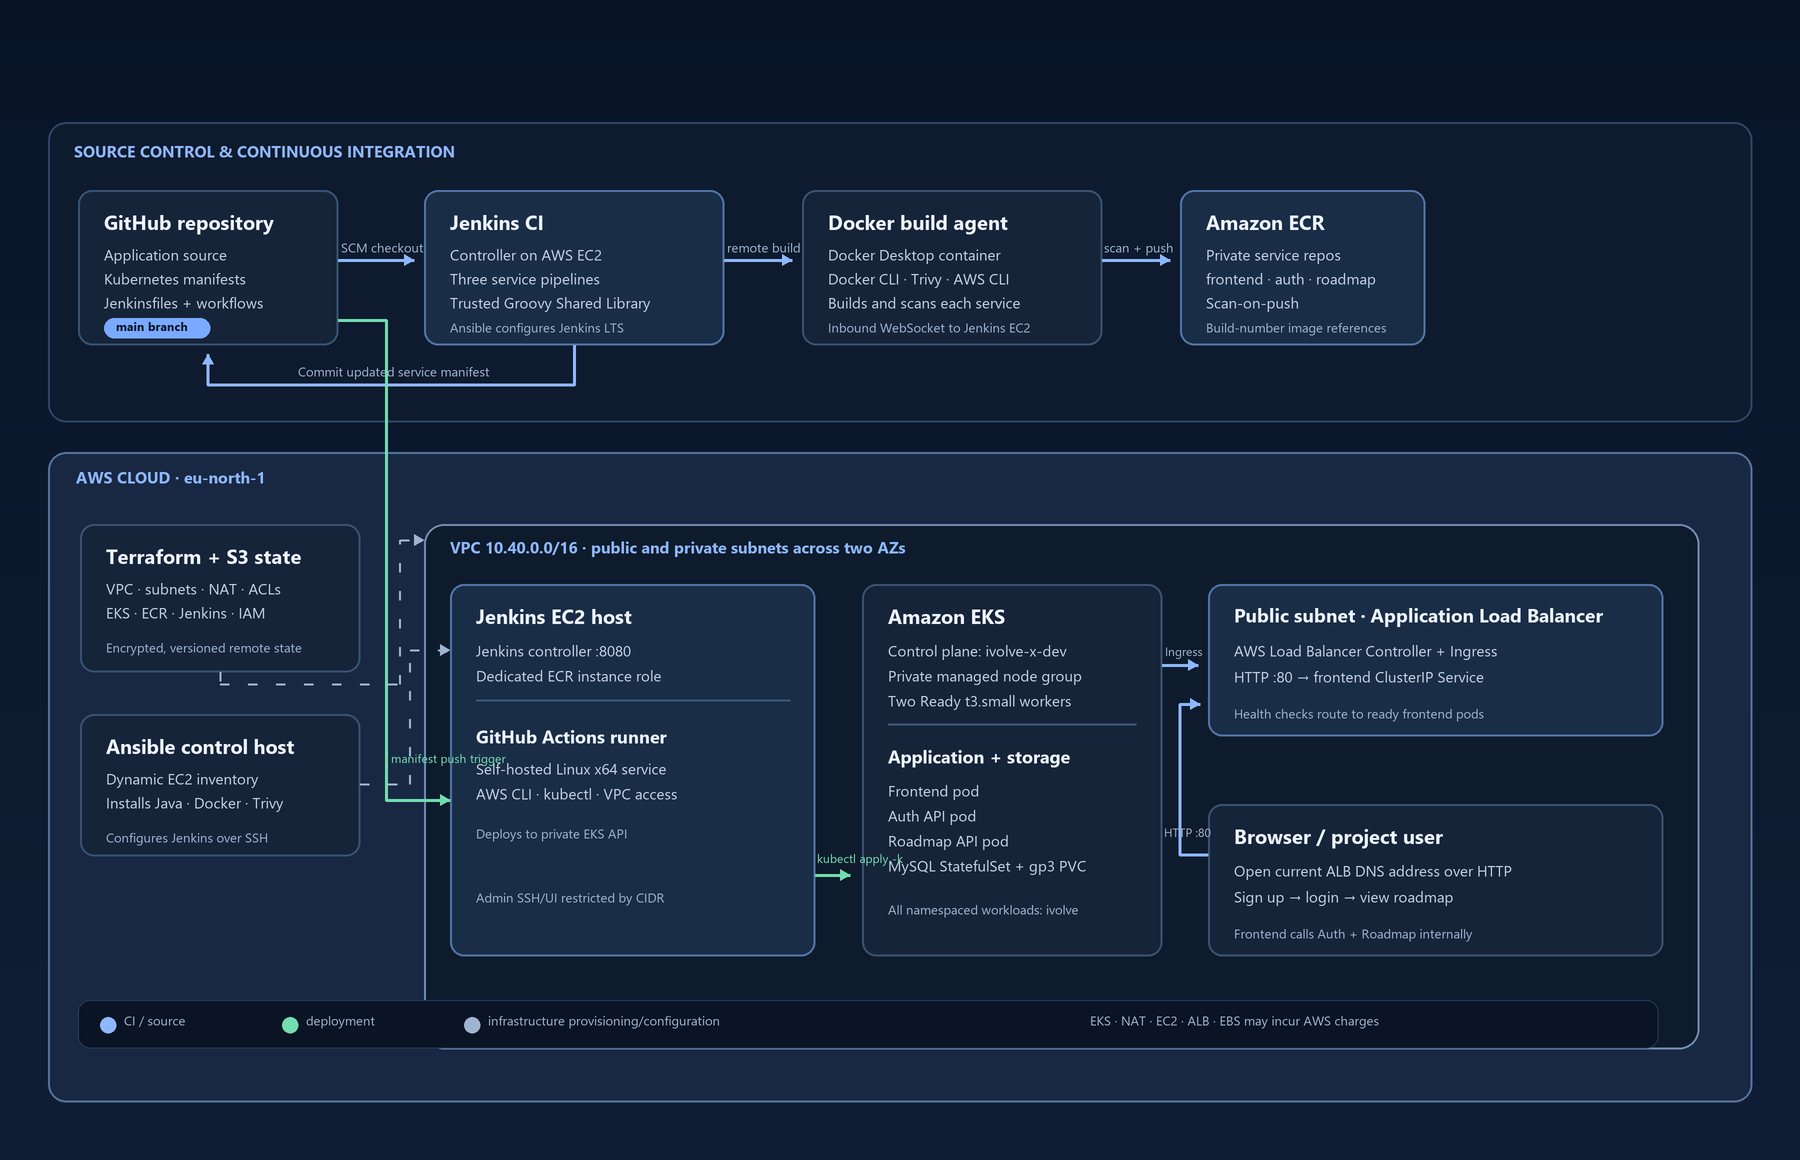
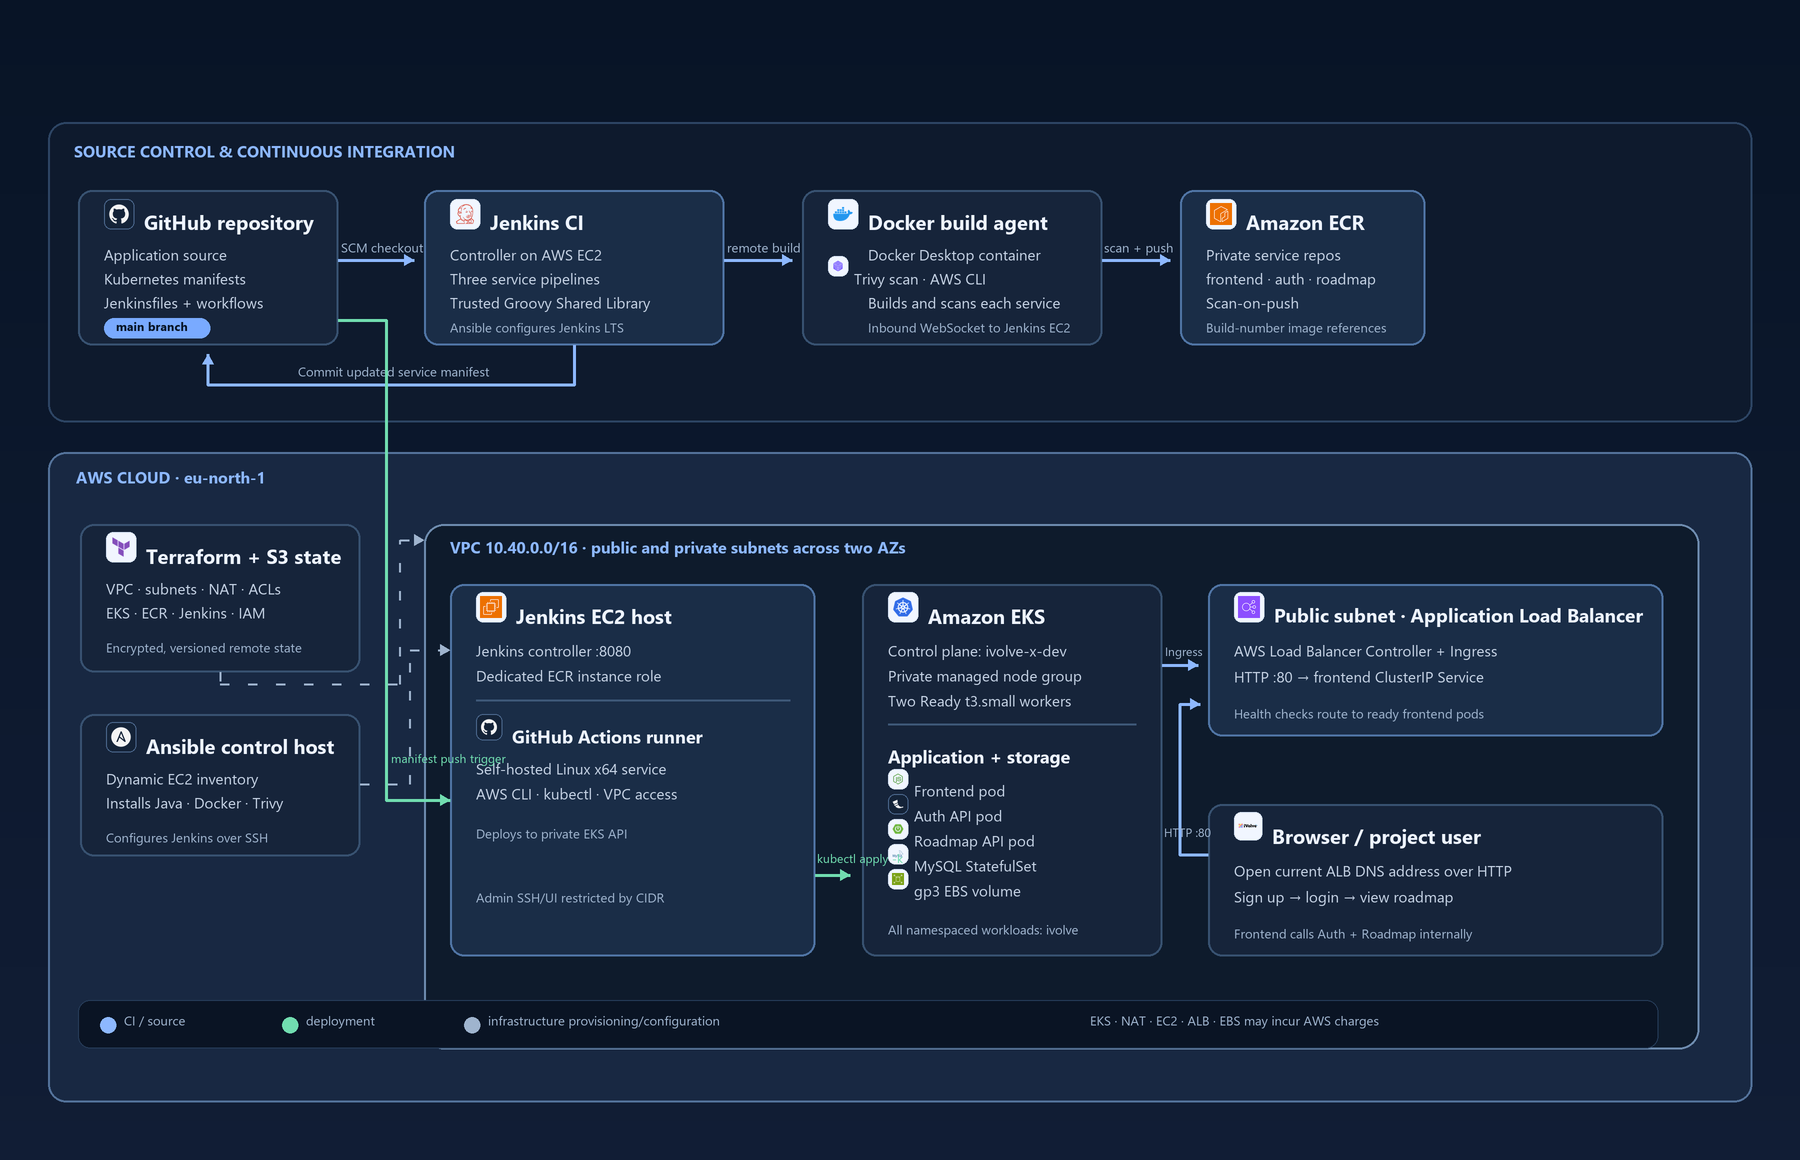
Add architecture video and Kubernetes manifests

diff --git a/docs/images/render_architecture.py b/docs/images/render_architecture.py
@@ -4,6 +4,7 @@ Requires Pillow. Run from the repository root with `python docs/images/render_ar
 The SVG remains the editable vector source; the PNG is the portable preview asset.
 """
 
+from functools import lru_cache
 from pathlib import Path
 
 from PIL import Image, ImageDraw, ImageFont
@@ -15,6 +16,8 @@ SCALE = 2
 W, H = 1800, 1160
 FONT_REGULAR = Path("C:/Windows/Fonts/segoeui.ttf")
 FONT_BOLD = Path("C:/Windows/Fonts/segoeuib.ttf")
+LOGO_ROOT = ROOT.parent / "demo" / "assets" / "logos"
+APP_LOGOS = ROOT.parent.parent / "app" / "frontend" / "public" / "images"
 
 BG1 = (8, 20, 38)
 BG2 = (17, 29, 53)
@@ -57,6 +60,30 @@ def lines(x, y, values, size=15, color=BODY, gap=25):
         label(x, y+i*gap, value, size, color)
 
 
+@lru_cache(maxsize=32)
+def load_logo(name):
+    if name.startswith("aws:"):
+        path = LOGO_ROOT / "aws" / f"{name.split(':', 1)[1]}.png"
+    elif name.startswith("brand:"):
+        path = APP_LOGOS / f"{name.split(':', 1)[1]}-logo.png"
+    else:
+        path = LOGO_ROOT / "rasterized" / f"{name}.png"
+    return Image.open(path).convert("RGBA")
+
+
+def icon(name, x, y, size=30):
+    """Draw a recognizable technology/service logo inside a light badge."""
+    dark_mark = name in {"github", "ansible", "flask"}
+    badge = (20, 35, 56) if dark_mark else (241, 246, 255)
+    edge = (75, 103, 140) if dark_mark else (221, 232, 249)
+    box(x, y, size, size, fill=badge, outline=edge, radius=7, width=1)
+    mark = load_logo(name).copy()
+    mark.thumbnail(((size-8)*SCALE, (size-8)*SCALE), Image.Resampling.LANCZOS)
+    left = x*SCALE + (size*SCALE - mark.width)//2
+    top = y*SCALE + (size*SCALE - mark.height)//2
+    im.paste(mark, (left, top), mark)
+
+
 def arrow(points, color=BLUE, width=3, head=10, dash=False):
     pts = [(x*SCALE, y*SCALE) for x, y in points]
     if dash:
@@ -91,23 +118,30 @@ box(48, 122, 1704, 300, fill=LANE, outline=(45, 69, 100), radius=18)
 label(74, 140, "SOURCE CONTROL & CONTINUOUS INTEGRATION", 16, BLUE, True)
 
 box(78, 190, 260, 155)
-label(104, 208, "GitHub repository", 20, TEXT, True)
+icon("github", 104, 199)
+label(144, 208, "GitHub repository", 20, TEXT, True)
 lines(104, 244, ["Application source", "Kubernetes manifests", "Jenkinsfiles + workflows"], 15, BODY, 24)
 box(104, 318, 106, 20, fill=(121, 170, 255), outline=(121, 170, 255), radius=10, width=1)
 label(116, 318, "main branch", 12, (7, 20, 38), True)
 
 box(424, 190, 300, 155, fill=CARD_ALT, outline=(80, 117, 165))
-label(450, 208, "Jenkins CI", 20, TEXT, True)
+icon("jenkins", 450, 199)
+label(490, 208, "Jenkins CI", 20, TEXT, True)
 lines(450, 244, ["Controller on AWS EC2", "Three service pipelines", "Trusted Groovy Shared Library"], 15, BODY, 24)
 label(450, 318, "Ansible configures Jenkins LTS", 13, MUTED)
 
 box(802, 190, 300, 155)
-label(828, 208, "Docker build agent", 20, TEXT, True)
-lines(828, 244, ["Docker Desktop container", "Docker CLI · Trivy · AWS CLI", "Builds and scans each service"], 15, BODY, 24)
-label(828, 318, "Inbound WebSocket to Jenkins EC2", 13, MUTED)
+icon("docker", 828, 199)
+label(868, 208, "Docker build agent", 20, TEXT, True)
+label(868, 244, "Docker Desktop container", 15, BODY)
+icon("trivy", 828, 256, 20)
+label(854, 268, "Trivy scan · AWS CLI", 15, BODY)
+label(868, 292, "Builds and scans each service", 15, BODY)
+label(868, 318, "Inbound WebSocket to Jenkins EC2", 13, MUTED)
 
 box(1180, 190, 245, 155, fill=CARD_ALT, outline=(80, 117, 165))
-label(1206, 208, "Amazon ECR", 20, TEXT, True)
+icon("aws:ecr", 1206, 199)
+label(1246, 208, "Amazon ECR", 20, TEXT, True)
 lines(1206, 244, ["Private service repos", "frontend · auth · roadmap", "Scan-on-push"], 15, BODY, 24)
 label(1206, 318, "Build-number image references", 13, MUTED)
 
@@ -125,12 +159,14 @@ box(48, 452, 1704, 650, fill=(24, 40, 66), outline=(84, 115, 155), radius=18, wi
 label(76, 466, "AWS CLOUD · eu-north-1", 16, BLUE, True)
 
 box(80, 524, 280, 148)
-label(106, 542, "Terraform + S3 state", 20, TEXT, True)
+icon("terraform", 106, 532)
+label(146, 542, "Terraform + S3 state", 20, TEXT, True)
 lines(106, 578, ["VPC · subnets · NAT · ACLs", "EKS · ECR · Jenkins · IAM"], 15, BODY, 24)
 label(106, 638, "Encrypted, versioned remote state", 13, MUTED)
 
 box(80, 714, 280, 142)
-label(106, 732, "Ansible control host", 20, TEXT, True)
+icon("ansible", 106, 722)
+label(146, 732, "Ansible control host", 20, TEXT, True)
 lines(106, 768, ["Dynamic EC2 inventory", "Installs Java · Docker · Trivy"], 15, BODY, 24)
 label(106, 828, "Configures Jenkins over SSH", 13, MUTED)
 
@@ -138,29 +174,43 @@ box(424, 524, 1275, 525, fill=(14, 27, 44), outline=(110, 140, 175), radius=20, 
 label(450, 536, "VPC 10.40.0.0/16 · public and private subnets across two AZs", 16, BLUE, True)
 
 box(450, 584, 365, 372, fill=CARD_ALT, outline=(80, 117, 165))
-label(476, 602, "Jenkins EC2 host", 20, TEXT, True)
+icon("aws:ec2", 476, 592)
+label(516, 602, "Jenkins EC2 host", 20, TEXT, True)
 lines(476, 640, ["Jenkins controller :8080", "Dedicated ECR instance role"], 15, BODY, 25)
 d.line((476*SCALE, 700*SCALE, 790*SCALE, 700*SCALE), fill=(62, 88, 120), width=2*SCALE)
-label(476, 724, "GitHub Actions runner", 18, TEXT, True)
+icon("github", 476, 714, 26)
+label(512, 724, "GitHub Actions runner", 18, TEXT, True)
 lines(476, 758, ["Self-hosted Linux x64 service", "AWS CLI · kubectl · VPC access"], 15, BODY, 25)
 label(476, 824, "Deploys to private EKS API", 13, MUTED)
 label(476, 888, "Admin SSH/UI restricted by CIDR", 13, MUTED)
 
 box(862, 584, 300, 372)
-label(888, 602, "Amazon EKS", 20, TEXT, True)
+icon("kubernetes", 888, 592)
+label(928, 602, "Amazon EKS", 20, TEXT, True)
 lines(888, 640, ["Control plane: ivolve-x-dev", "Private managed node group", "Two Ready t3.small workers"], 15, BODY, 25)
 d.line((888*SCALE, 724*SCALE, 1136*SCALE, 724*SCALE), fill=(62, 88, 120), width=2*SCALE)
 label(888, 744, "Application + storage", 18, TEXT, True)
-lines(888, 780, ["Frontend pod", "Auth API pod", "Roadmap API pod", "MySQL StatefulSet + gp3 PVC"], 15, BODY, 25)
-label(888, 900, "All namespaced workloads: ivolve", 13, MUTED)
+icon("nodedotjs", 888, 769, 20)
+label(914, 780, "Frontend pod", 15, BODY)
+icon("flask", 888, 794, 20)
+label(914, 805, "Auth API pod", 15, BODY)
+icon("springboot", 888, 819, 20)
+label(914, 830, "Roadmap API pod", 15, BODY)
+icon("mysql", 888, 844, 20)
+label(914, 855, "MySQL StatefulSet", 15, BODY)
+icon("aws:ebs", 888, 869, 20)
+label(914, 880, "gp3 EBS volume", 15, BODY)
+label(888, 920, "All namespaced workloads: ivolve", 13, MUTED)
 
 box(1208, 584, 455, 152, fill=CARD_ALT, outline=(80, 117, 165))
-label(1234, 602, "Public subnet · Application Load Balancer", 19, TEXT, True)
+icon("aws:elb", 1234, 592)
+label(1274, 602, "Public subnet · Application Load Balancer", 19, TEXT, True)
 lines(1234, 640, ["AWS Load Balancer Controller + Ingress", "HTTP :80 → frontend ClusterIP Service"], 15, BODY, 26)
 label(1234, 704, "Health checks route to ready frontend pods", 13, MUTED)
 
 box(1208, 804, 455, 152)
-label(1234, 822, "Browser / project user", 20, TEXT, True)
+icon("brand:ivolve", 1234, 812, 28)
+label(1272, 822, "Browser / project user", 20, TEXT, True)
 lines(1234, 860, ["Open current ALB DNS address over HTTP", "Sign up → login → view roadmap"], 15, BODY, 26)
 label(1234, 924, "Frontend calls Auth + Roadmap internally", 13, MUTED)
 

diff --git a/README.md b/README.md
@@ -46,9 +46,13 @@ Developer change
 
 Terraform provisions AWS resources. Ansible configures the Jenkins EC2 host. These are setup/configuration stages; they are not run for every application image deployment.
 
-### Important deployment requirement note
+### Project walkthrough video — no captions
 
-The assignment brief itself is not stored in this repository, so the checklist below reflects the project requirements recorded here. The current deployment workflow is GitHub Actions. The earlier project notes say Argo CD was named in the brief, but the deployed implementation uses event-driven GitHub Actions instead. GitHub Actions is **not** Argo CD and does not continuously reconcile cluster drift. If the grading rubric requires Argo CD specifically, treat that as an open requirement and confirm the accepted alternative with the instructor; do not describe the two tools as equivalent.
+The landscape walkthrough below has no captions or transcript. Select its cover to open the MP4.
+
+[![Play the iVolve DevOps project walkthrough without captions](docs/demo/ivolve-devops-explainer-no-captions-cover.png)](docs/demo/ivolve-devops-explainer-no-captions.mp4)
+
+[Open or download the no-captions video](docs/demo/ivolve-devops-explainer-no-captions.mp4) · [Video details and other formats](docs/README.md#demo-videos)
 
 ## Requirement and delivery status
 
@@ -109,6 +113,13 @@ docker compose --env-file docker/.env -f docker/compose.yaml down
 ```
 
 For logs, health checks, and troubleshooting see [`docker/README.md`](docker/README.md). The first Maven build can take several minutes. Do not use `down --volumes` unless you intentionally want to delete local database data.
+
+<details>
+<summary>Docker Compose evidence</summary>
+
+![Docker Compose building images and starting the local application services](docs/images/evidence/docker-compose-started.png)
+
+</details>
 
 ## AWS infrastructure and Terraform
 
@@ -179,11 +190,39 @@ docker logs --tail 30 ivolve-build-agent
 
 Expected agent log includes `WebSocket connection open` and `Connected`. Exact Jenkins job setup, credentials, and verification are in [`jenkins/README.md`](jenkins/README.md).
 
+<details>
+<summary>Jenkins evidence: Frontend pipeline</summary>
+
+![Successful Jenkins Frontend pipeline stages](docs/images/evidence/jenkins-frontend-pipeline.png)
+
+</details>
+
+<details>
+<summary>Jenkins evidence: Auth service pipeline</summary>
+
+![Successful Jenkins Auth service pipeline stages](docs/images/evidence/jenkins-auth-service-pipeline.png)
+
+</details>
+
+<details>
+<summary>Jenkins evidence: Roadmap service pipeline</summary>
+
+![Successful Jenkins Roadmap service pipeline stages](docs/images/evidence/jenkins-roadmap-service-pipeline.png)
+
+</details>
+
 ## GitHub Actions deployment
 
 The deploy workflow is `.github/workflows/deploy-dev.yml`. It runs on `workflow_dispatch` or when one of the service manifests changes on `main`. The runner labels are `self-hosted`, `linux`, and `x64`. Configure repository Actions secrets for AWS deployment and app/database configuration; exact secret names and workflow behavior are in [`.github/README.md`](.github/README.md).
 
 The AWS Organization Service Control Policy blocks creation of the GitHub OIDC provider in this account. The current implementation therefore uses a dedicated IAM deploy user's access keys in repository secrets. Treat these as credentials, rotate/revoke them when appropriate, and never include their values in public evidence.
+
+<details>
+<summary>GitHub Actions deployment evidence</summary>
+
+![Successful GitHub Actions deployment workflow to EKS](docs/images/evidence/github-actions-eks-deployment.png)
+
+</details>
 
 ## Kubernetes and application verification
 
@@ -208,6 +247,13 @@ kubectl rollout status deployment/auth-service -n ivolve --timeout=300s
 kubectl rollout status deployment/roadmap-service -n ivolve --timeout=300s
 kubectl rollout status deployment/frontend -n ivolve --timeout=300s
 ```
+
+<details>
+<summary>Application evidence: live through the AWS ALB</summary>
+
+![iVolve training roadmap application served through the AWS ALB](docs/images/evidence/application-live-on-alb.png)
+
+</details>
 
 ## Evidence and demo
 

diff --git a/kubernetes/README.md b/kubernetes/README.md
@@ -6,12 +6,24 @@ Jenkins builds and scans each service image, publishes it to ECR, updates that s
 
 - `base/` contains the MySQL StatefulSet and persistent EBS claim, app ConfigMap, service Deployments, and internal Services.
 - `overlays/dev/` scopes namespaced resources to the existing `ivolve` namespace.
-- The workflow creates or updates the Kubernetes Secret from GitHub repository secrets. Credentials are not stored in manifests.
+- `base/namespace.yaml` declares the required `ivolve` namespace. Create it once with a cluster-admin identity; the GitHub deploy identity cannot create cluster-scoped resources.
+- `base/app-secrets.example.yaml` documents the required Secret name and keys with safe placeholders. Do not apply this template or commit real credentials. The workflow creates or updates the live Secret from GitHub repository secrets.
 - `base/storageclass.yaml` is cluster-scoped and must be installed once by a cluster administrator; the GitHub deploy identity is limited to the `ivolve` namespace.
 - `base/frontend-ingress.yaml` defines an internet-facing AWS Application Load Balancer Ingress routing HTTP traffic to the frontend ClusterIP Service.
 - The Ingress requires the AWS Load Balancer Controller, its EKS Pod Identity role/association, and tagged public subnets. The cluster administrator installs the controller; the GitHub deploy identity applies the namespaced Ingress.
 
 These subfolders are covered by this README: `base/` holds the MySQL StatefulSet/headless Service, ConfigMap, app Deployments/Services, ingress, and the separate cluster-scoped `storageclass.yaml`; `overlays/dev/` selects the ECR images and the already-existing `ivolve` namespace for the deployed development stack. Jenkins updates service image tags in `base/`; GitHub Actions applies `overlays/dev/`.
+
+## One-time namespace setup
+
+Create the namespace before the first automated deployment, using a kubeconfig with cluster-admin access. The deploy identity used by GitHub Actions is intentionally not allowed to create namespaces:
+
+```powershell
+kubectl apply -f kubernetes/base/namespace.yaml
+kubectl get namespace ivolve
+```
+
+The application Secret values belong in GitHub repository secrets (`MYSQL_ROOT_PASSWORD`, `DB_USER`, `DB_PASSWORD`, and `SESSION_SECRET`). The workflow materializes them as `app-secrets` at deployment time. `base/app-secrets.example.yaml` is a documentation template only and must not be applied.
 
 ## Development deployment
 

diff --git a/docs/README.md b/docs/README.md
@@ -9,6 +9,7 @@ This is the single README for everything under `docs/`: the full system architec
 - Editable vector: [`images/ivolve-platform-architecture.svg`](images/ivolve-platform-architecture.svg).
 - Raster image for slides and social media: [`images/ivolve-platform-architecture.png`](images/ivolve-platform-architecture.png).
 - Diagram source and rendering script: [`images/render_architecture.py`](images/render_architecture.py). Run `python docs/images/render_architecture.py` from the repository root to regenerate the PNG (requires Pillow).
+- The diagram uses the project and service marks plus AWS and technology logos; the source assets are kept in [`demo/assets/logos/`](demo/assets/logos/) and the frontend brand marks in `app/frontend/public/images/`.
 
 ## Demo videos
 
